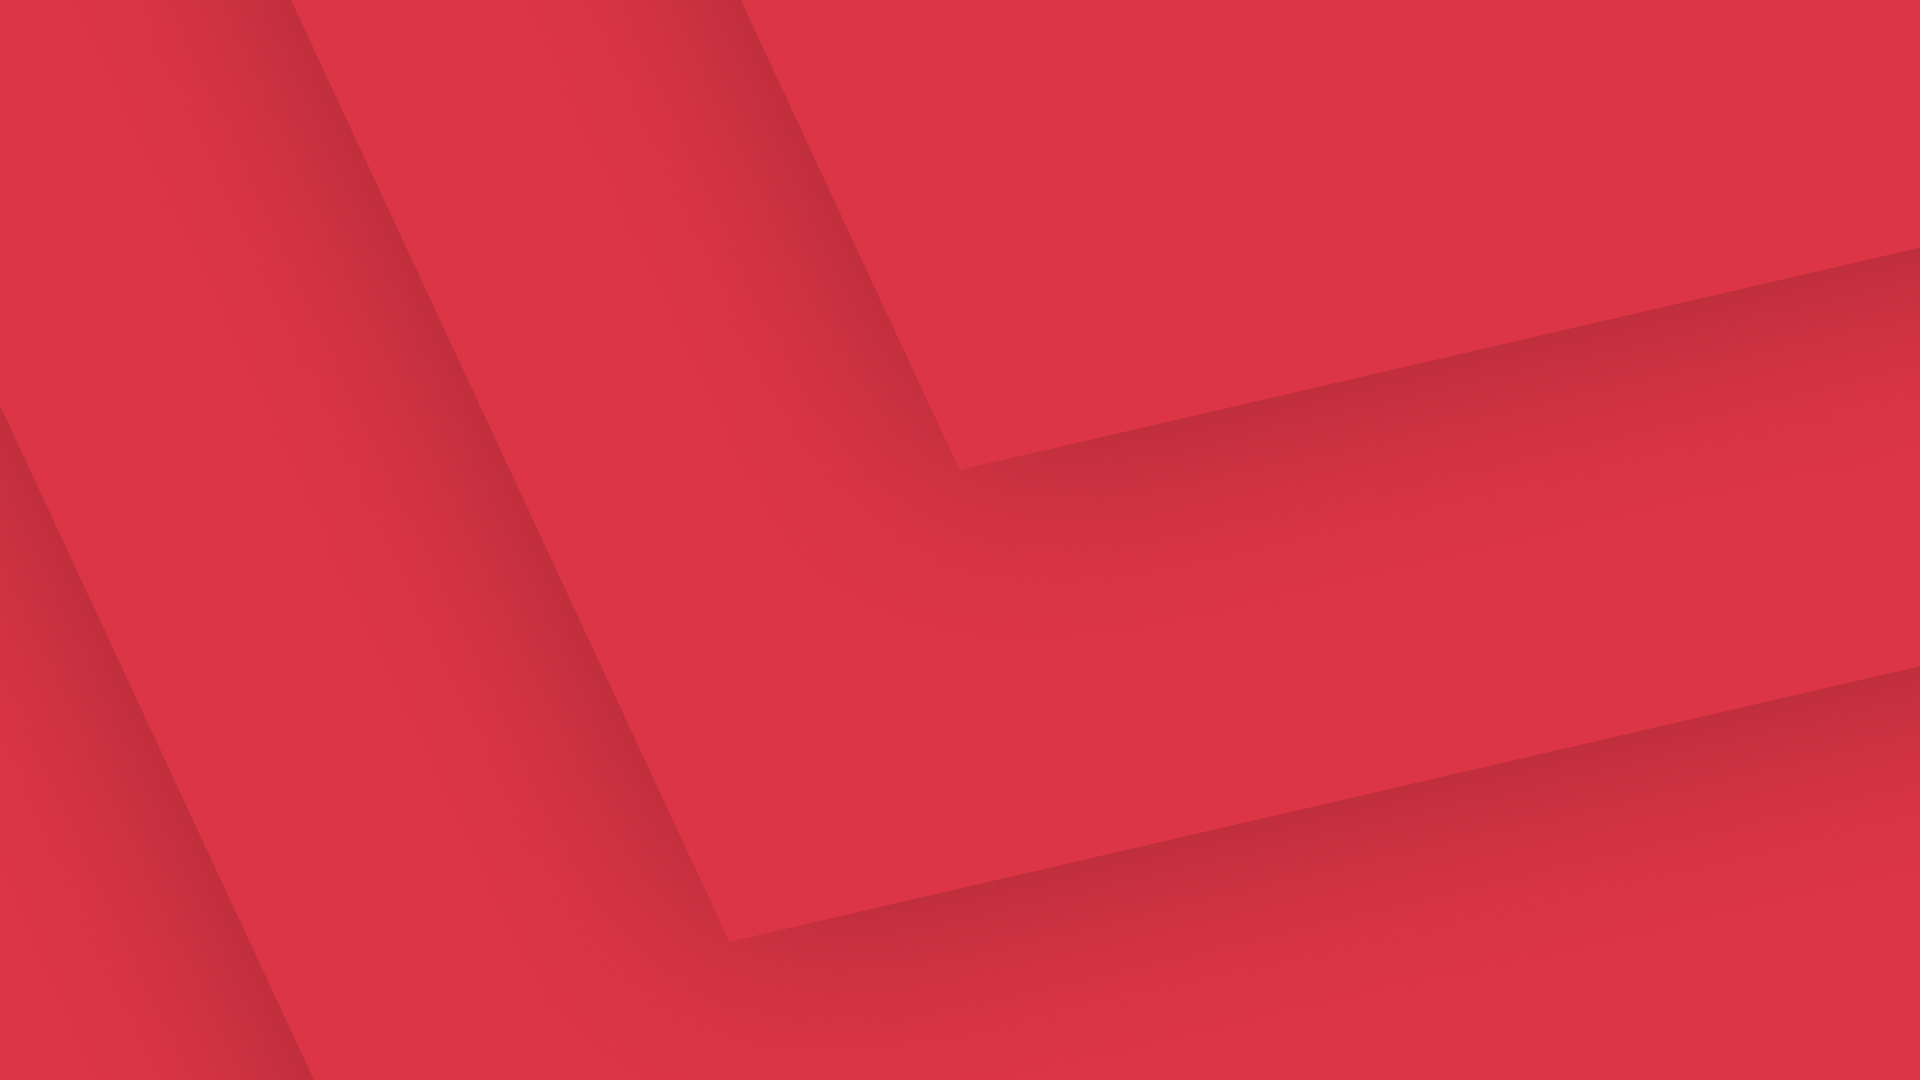
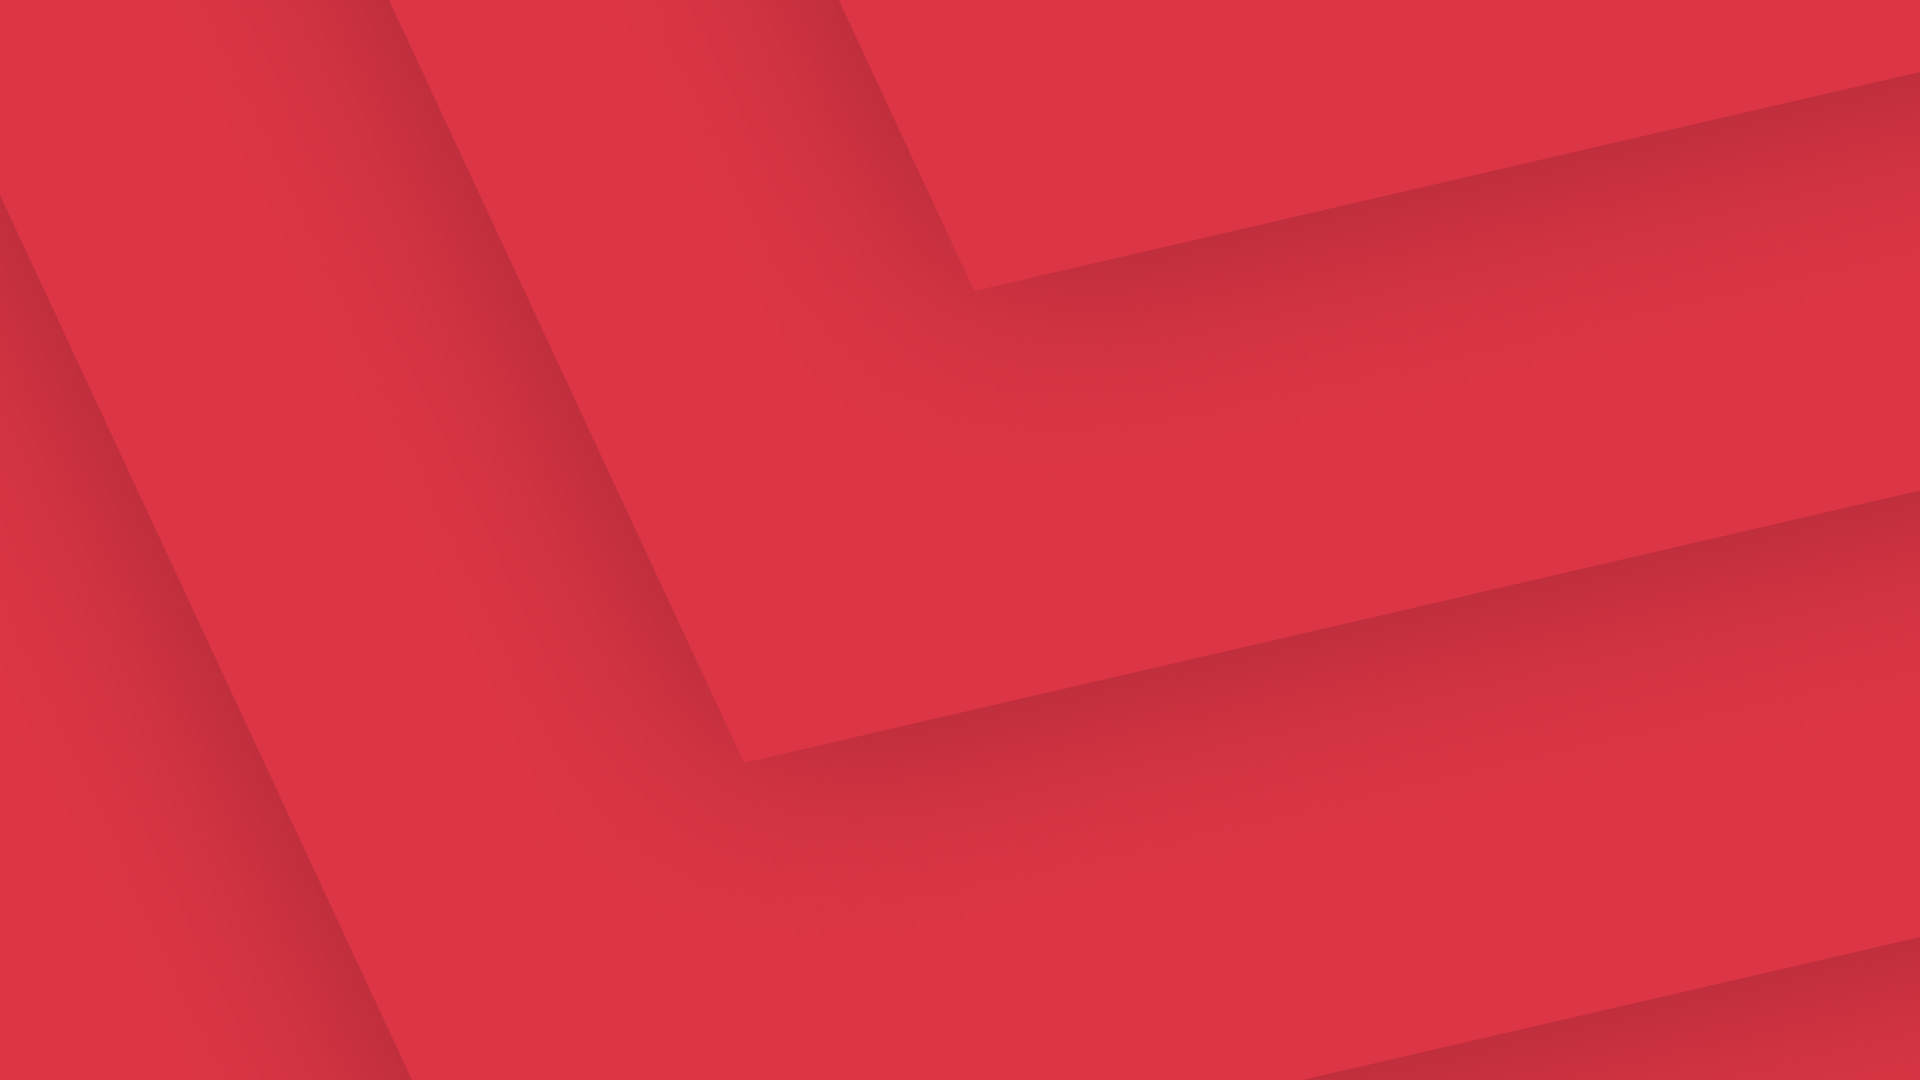
Correct bg, jumbo styling

diff --git a/app/assets/stylesheets/application.scss b/app/assets/stylesheets/application.scss
@@ -1,27 +1,8 @@
 @import "bootstrap";
 
-.navbar {
-  background-color: #1c1c1c;
-
-  .navbar-brand {
-    font-weight: bold;
-  }
-}
-
 body {
   padding-top: 56px;
   color: #1c1c1c;
-}
-
-.jumbotron {
-  padding: 200px 0;
-  background: url('bg.jpg') no-repeat center center;
-  background-size: cover;
-  color: white;
-}
-
-.alert {
-  padding: 0;
 }
 
 A {
@@ -33,6 +14,26 @@ A {
   }
 }
 
-h2 {
+h1, h2, h3 {
   font-weight: bold;
+}
+
+.navbar {
+  background-color: #1c1c1c;
+
+  .navbar-brand {
+    font-weight: bold;
+  }
+}
+
+.jumbotron {
+  padding: 200px 0;
+  background: url('bg.jpg') no-repeat center center;
+  background-size: cover;
+  color: white;
+  margin-bottom: 0;
+}
+
+.alert {
+  padding: 0;
 }
